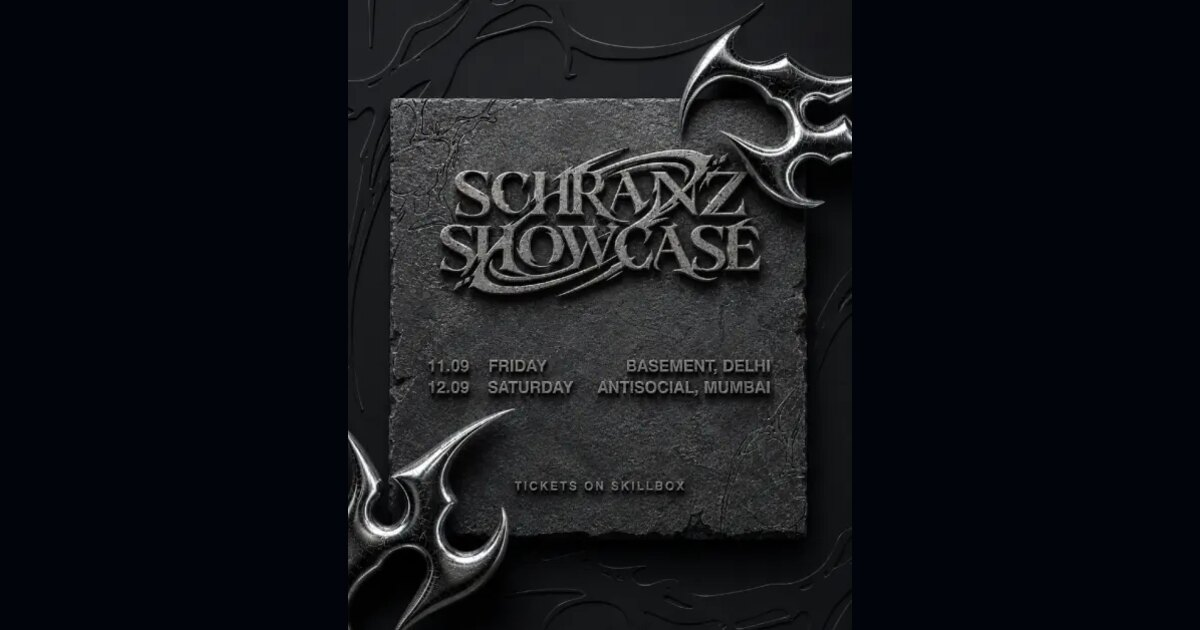
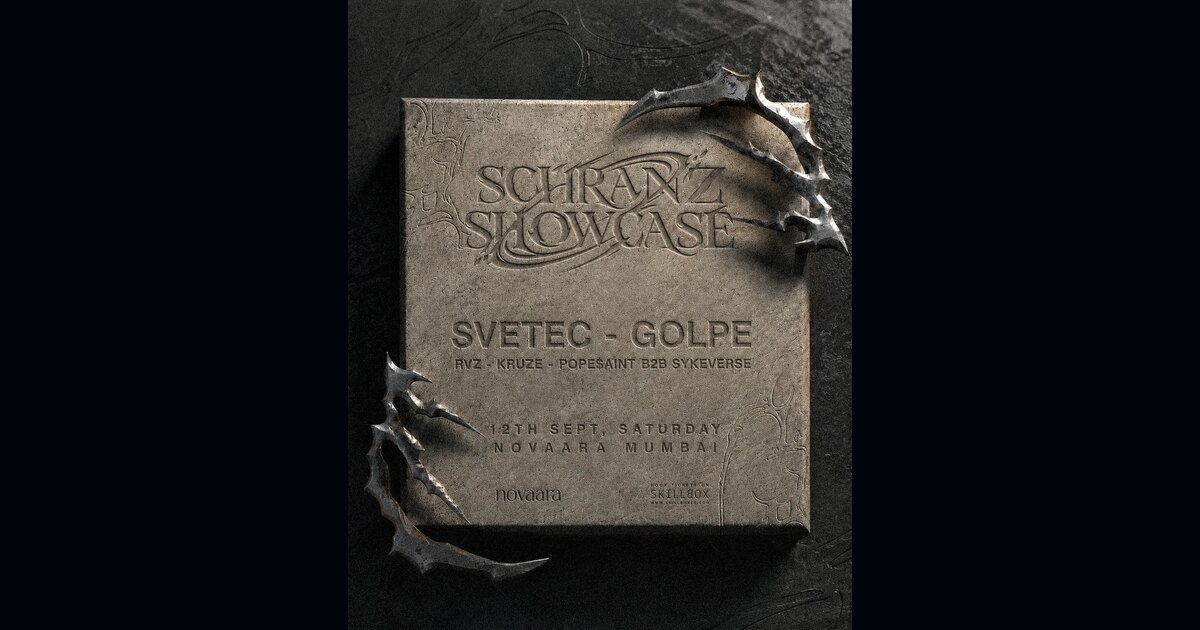
New Schranz poster, and the venue moved to Novaara
Poster replaced with the 3 Sep artwork. It names Novaara Mumbai rather than
antiSOCIAL, and the Skillbox listing now says the same, so the venue is corrected
across the card, the calendar row and the share preview. Novaara is in Malad West,
the old listing was Lower Parel.

The new artwork also drops the Delhi date the first poster carried.

Changed region(s): [[0.2775, 0.0, 0.7092, 1.0], [0.37, 0.0603, 0.4008, 0.0905], [0.3392, 0.0302, 0.37, 0.0603]]

diff --git a/event/schranz-showcase-sep.html b/event/schranz-showcase-sep.html
@@ -7,7 +7,7 @@
     <title>Schranz Showcase | Mumbai | FallØut India</title>
     <meta
       name="description"
-      content="Schranz Showcase on 12 September 2026 at antiSOCIAL, Mumbai. Offline tickets from ₹2,000. Book direct with FallØut India."
+      content="Schranz Showcase on 12 September 2026 at Novaara, Mumbai. Offline tickets from ₹2,000. Book direct with FallØut India."
     />
     <meta name="robots" content="index, follow, max-image-preview:large" />
     <link id="canonical-url" rel="canonical" href="https://www.fall0ut.in/event/schranz-showcase-sep" />
@@ -20,7 +20,7 @@
     />
     <meta
       property="og:description"
-      content="Schranz Showcase on 12 September 2026 at antiSOCIAL, Mumbai. Offline tickets from ₹2,000. Book direct with FallØut India."
+      content="Schranz Showcase on 12 September 2026 at Novaara, Mumbai. Offline tickets from ₹2,000. Book direct with FallØut India."
     />
     <meta
       property="og:image"
@@ -40,7 +40,7 @@
     />
     <meta
       name="twitter:description"
-      content="Schranz Showcase on 12 September 2026 at antiSOCIAL, Mumbai. Offline tickets from ₹2,000. Book direct with FallØut India."
+      content="Schranz Showcase on 12 September 2026 at Novaara, Mumbai. Offline tickets from ₹2,000. Book direct with FallØut India."
     />
     <meta
       name="twitter:image"
@@ -673,9 +673,9 @@
               <span class="discount-bookmark">Get ₹2,300* off</span>
               <img
                 src="./assets/schranz-sep-poster.webp"
-                alt="Schranz Showcase poster for Delhi on 11 September and Mumbai on 12 September"
-                width="502"
-                height="628"
+                alt="Schranz Showcase poster: Svetec and Golpe at Novaara Mumbai on 12 September"
+                width="1080"
+                height="1350"
                 loading="lazy"
                 decoding="async"
               />
@@ -683,7 +683,7 @@
             <div class="event-copy">
               <p class="event-date">12 Sep 2026</p>
               <h3>Schranz Showcase</h3>
-              <p class="event-location">antiSOCIAL / Mumbai</p>
+              <p class="event-location">Novaara / Mumbai</p>
               <p
                 class="event-countdown"
                 data-countdown
@@ -1220,7 +1220,7 @@
               >
                 <time datetime="2026-09-12">12 Sep</time>
                 <strong>Schranz Showcase</strong>
-                <span>antiSOCIAL / Mumbai</span>
+                <span>Novaara / Mumbai</span>
                 <span
                   class="calendar-countdown"
                   data-countdown
@@ -1239,6 +1239,78 @@
                 data-analytics-placement="calendar"
               >
                 <time datetime="2026-09">Soon</time>
+                <strong>More dates dropping soon</strong>
+                <span>
+                  Follow
+                  <span class="inline-link">@fall0utindia</span>
+                  for Mumbai, Delhi NCR, and new city drops.
+                </span>
+              </a>
+            </section>
+
+            <section class="month-card" aria-labelledby="oct-title">
+              <header>
+                <span>Forward</span>
+                <h3 id="oct-title">October</h3>
+              </header>
+              <a
+                class="calendar-event calendar-event--notice"
+                href="/out/instagram/calendar"
+                target="_blank"
+                rel="noreferrer"
+                data-analytics-event="social_click"
+                data-analytics-target="instagram"
+                data-analytics-placement="calendar"
+              >
+                <time datetime="2026-10">Soon</time>
+                <strong>More dates dropping soon</strong>
+                <span>
+                  Follow
+                  <span class="inline-link">@fall0utindia</span>
+                  for Mumbai, Delhi NCR, and new city drops.
+                </span>
+              </a>
+            </section>
+
+            <section class="month-card" aria-labelledby="nov-title">
+              <header>
+                <span>Forward</span>
+                <h3 id="nov-title">November</h3>
+              </header>
+              <a
+                class="calendar-event calendar-event--notice"
+                href="/out/instagram/calendar"
+                target="_blank"
+                rel="noreferrer"
+                data-analytics-event="social_click"
+                data-analytics-target="instagram"
+                data-analytics-placement="calendar"
+              >
+                <time datetime="2026-11">Soon</time>
+                <strong>More dates dropping soon</strong>
+                <span>
+                  Follow
+                  <span class="inline-link">@fall0utindia</span>
+                  for Mumbai, Delhi NCR, and new city drops.
+                </span>
+              </a>
+            </section>
+
+            <section class="month-card" aria-labelledby="dec-title">
+              <header>
+                <span>Forward</span>
+                <h3 id="dec-title">December</h3>
+              </header>
+              <a
+                class="calendar-event calendar-event--notice"
+                href="/out/instagram/calendar"
+                target="_blank"
+                rel="noreferrer"
+                data-analytics-event="social_click"
+                data-analytics-target="instagram"
+                data-analytics-placement="calendar"
+              >
+                <time datetime="2026-12">Soon</time>
                 <strong>More dates dropping soon</strong>
                 <span>
                   Follow

diff --git a/index.html b/index.html
@@ -673,9 +673,9 @@
               <span class="discount-bookmark">Get ₹2,300* off</span>
               <img
                 src="./assets/schranz-sep-poster.webp"
-                alt="Schranz Showcase poster for Delhi on 11 September and Mumbai on 12 September"
-                width="502"
-                height="628"
+                alt="Schranz Showcase poster: Svetec and Golpe at Novaara Mumbai on 12 September"
+                width="1080"
+                height="1350"
                 loading="lazy"
                 decoding="async"
               />
@@ -683,7 +683,7 @@
             <div class="event-copy">
               <p class="event-date">12 Sep 2026</p>
               <h3>Schranz Showcase</h3>
-              <p class="event-location">antiSOCIAL / Mumbai</p>
+              <p class="event-location">Novaara / Mumbai</p>
               <p
                 class="event-countdown"
                 data-countdown
@@ -1220,7 +1220,7 @@
               >
                 <time datetime="2026-09-12">12 Sep</time>
                 <strong>Schranz Showcase</strong>
-                <span>antiSOCIAL / Mumbai</span>
+                <span>Novaara / Mumbai</span>
                 <span
                   class="calendar-countdown"
                   data-countdown

diff --git a/raves.html b/raves.html
@@ -121,7 +121,7 @@
                   "image": "https://www.fall0ut.in/assets/og/schranz-showcase-sep.jpg",
                   "location": {
                     "@type": "Place",
-                    "name": "antiSOCIAL",
+                    "name": "Novaara",
                     "address": {
                       "@type": "PostalAddress",
                       "addressLocality": "Mumbai",
